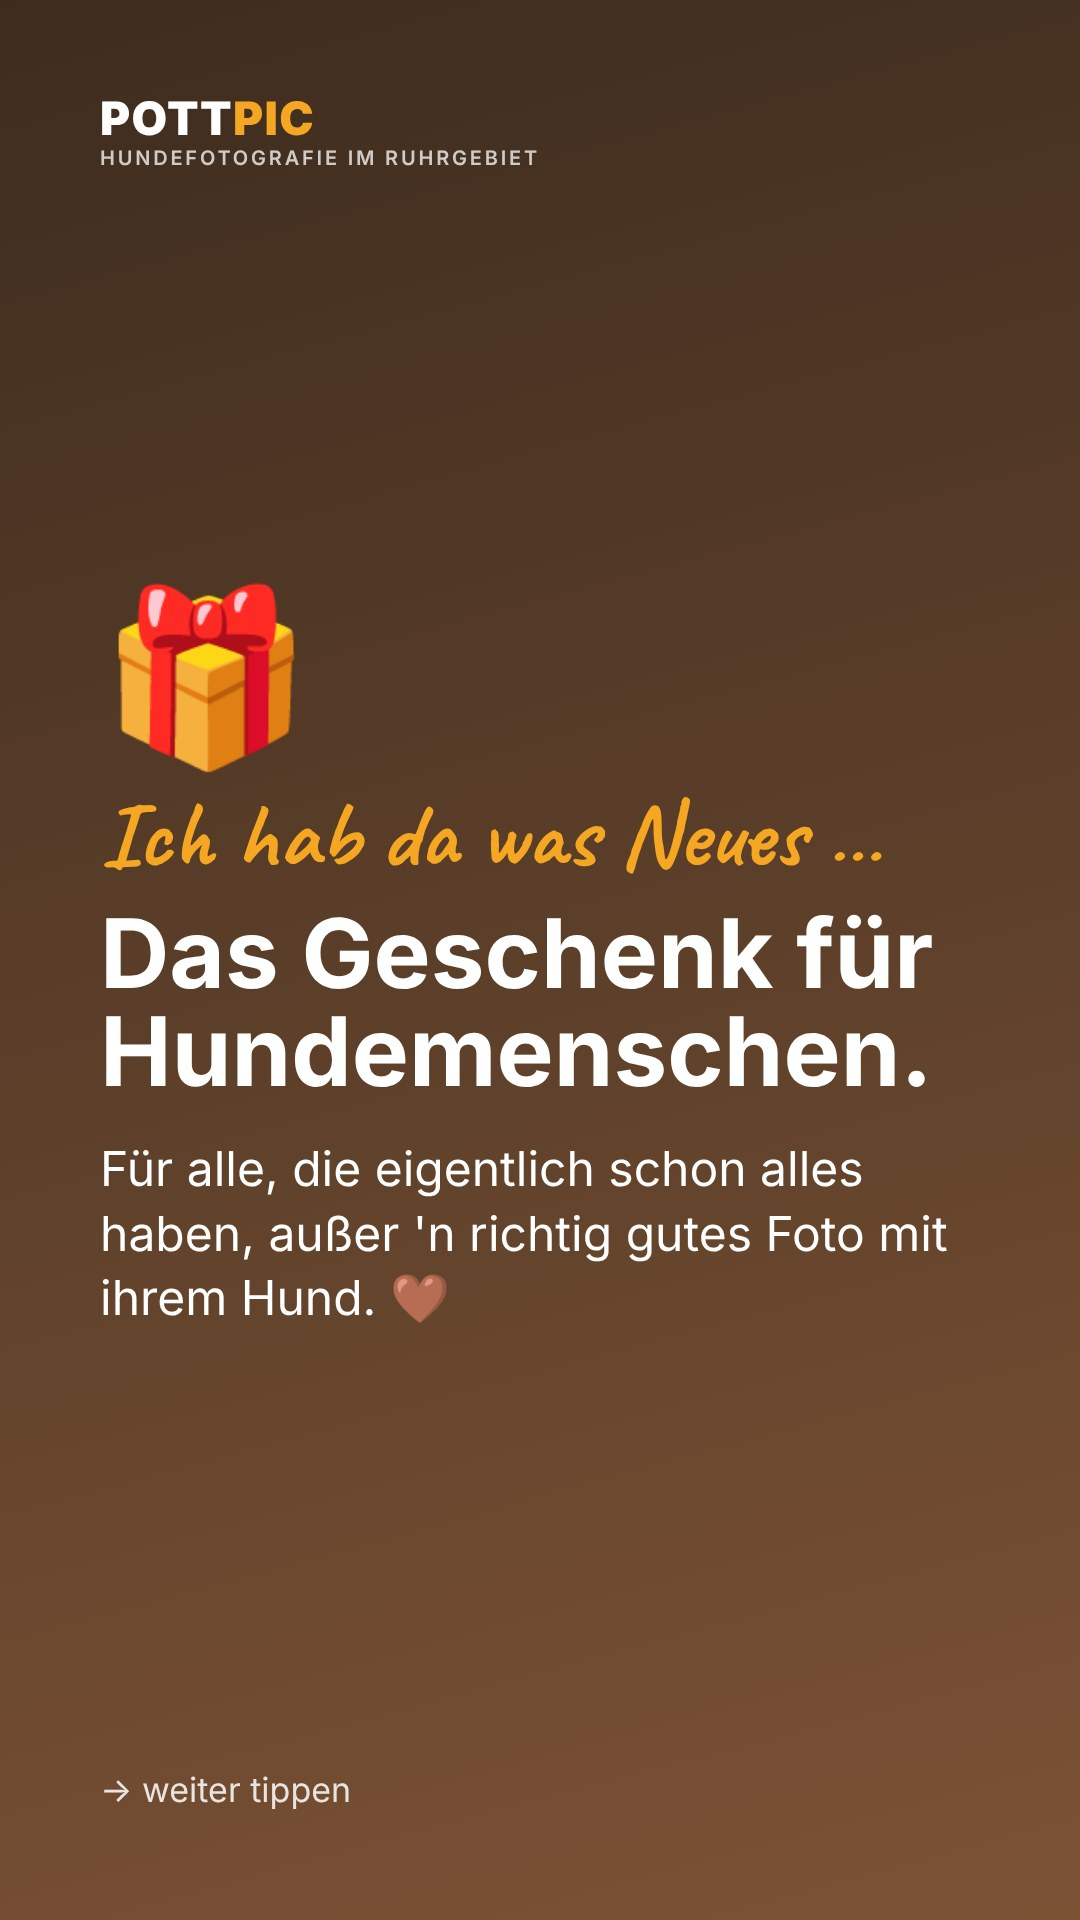
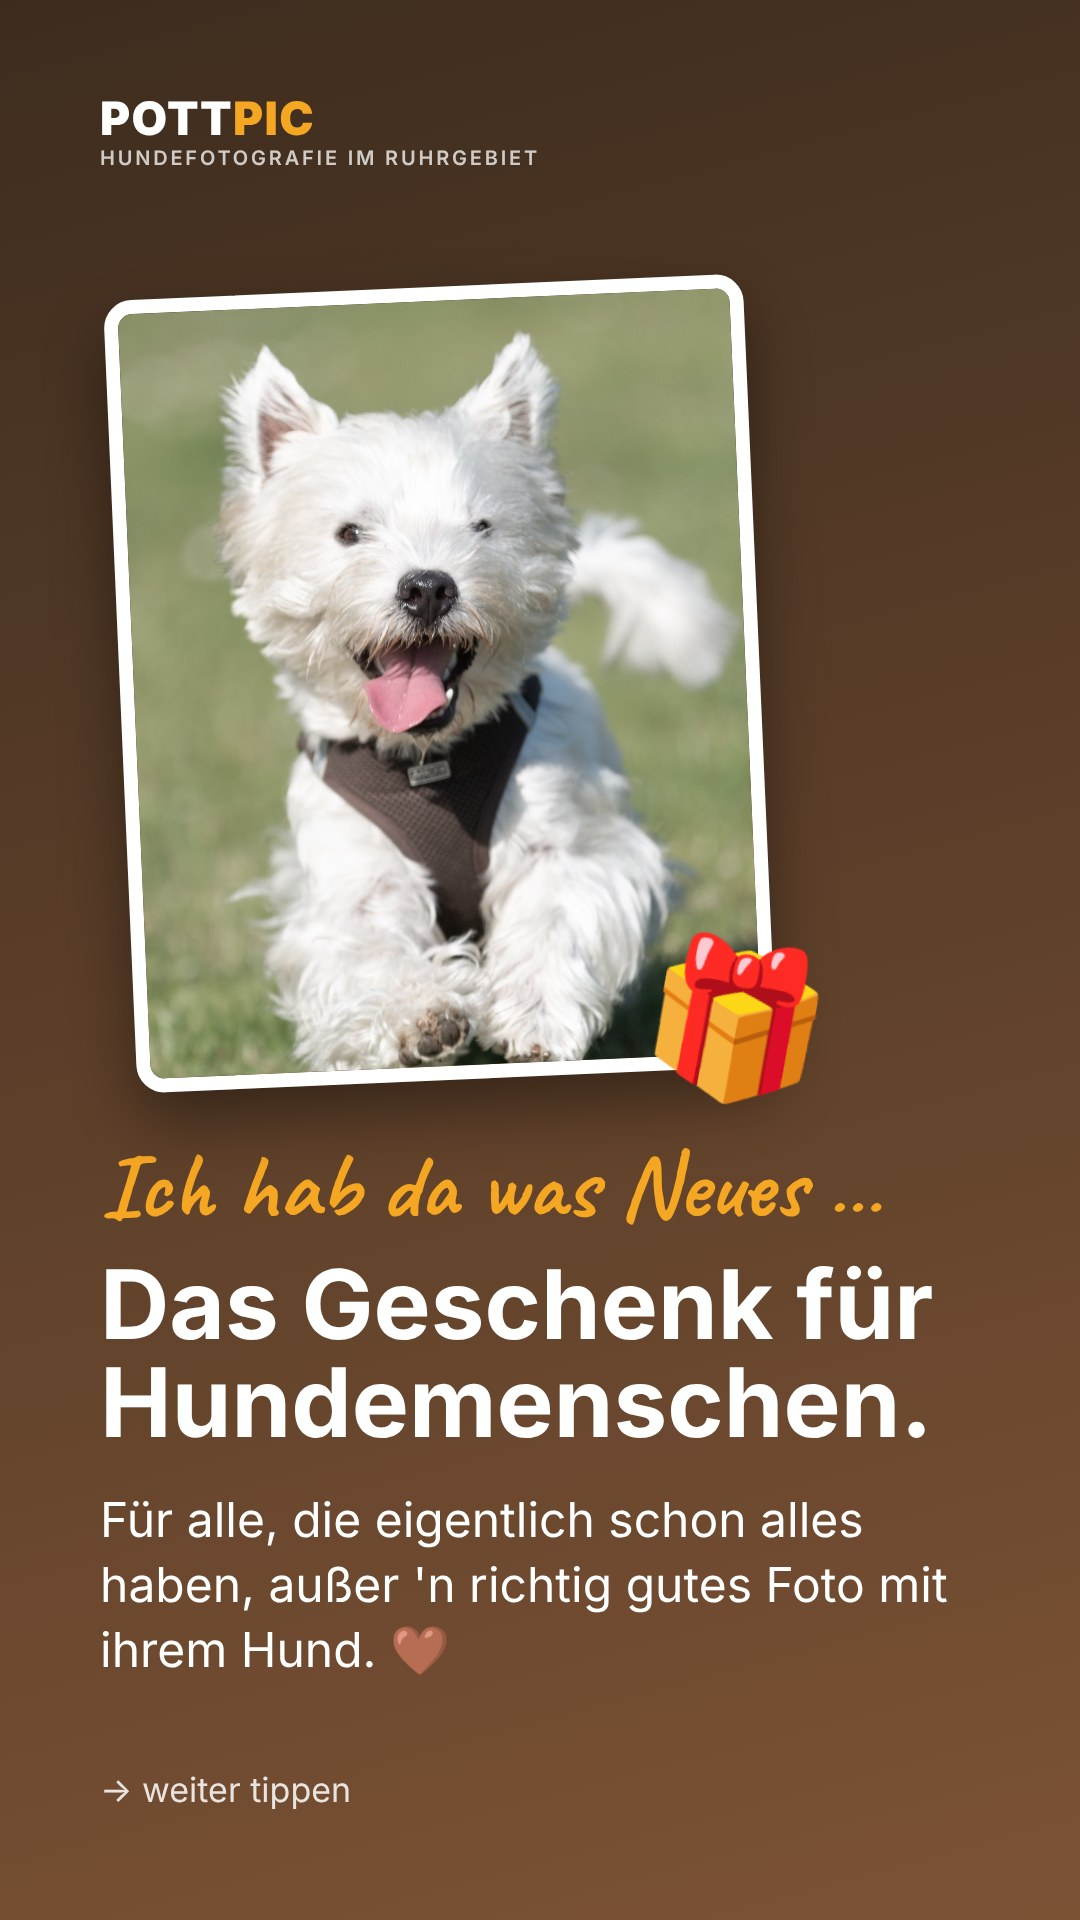
WhatsApp-Status 1 mit Westie-Foto (#47)
Claude-Session: https://claude.ai/code/session_01Emp5GwUFmLehWXG9JbWewG

diff --git a/angebot/status/status.html b/angebot/status/status.html
@@ -35,9 +35,9 @@ p{font-size:48px;line-height:1.35}
 <body>
 
 <!-- 1: Aufhänger -->
-<div class="s dark" id="s1">
+<div class="s dark" id="s1" style="padding-top:200px">
   <div class="logo">POTT<span>PIC</span><small>Hundefotografie im Ruhrgebiet</small></div>
-  <div class="big-emoji">🎁</div>
+  <div style="position:relative;width:640px;margin:0 0 60px 20px"><img src="../bilder/hero.jpg" alt="" style="width:100%;display:block;border-radius:28px;border:14px solid #fff;box-shadow:0 30px 60px rgba(0,0,0,.4);transform:rotate(-2.5deg)"><div style="position:absolute;right:-70px;bottom:-30px;font-size:150px;transform:rotate(10deg)">🎁</div></div>
   <div class="k hand">Ich hab da was Neues …</div>
   <h1 style="font-size:96px">Das Geschenk für Hunde&shy;menschen.</h1>
   <p>Für alle, die eigentlich schon alles haben, außer 'n richtig gutes Foto mit ihrem Hund. 🤎</p>
